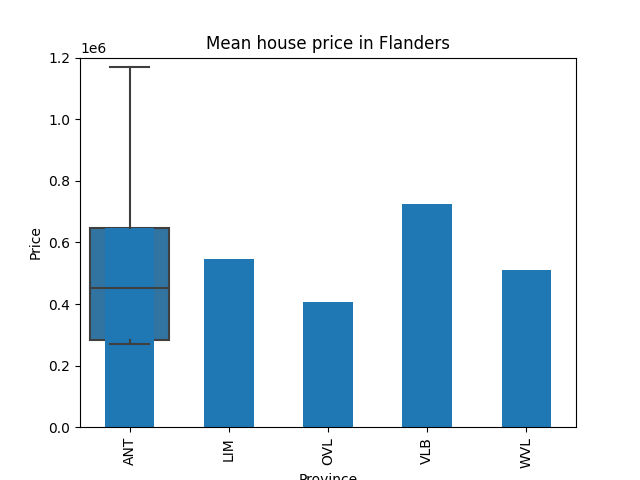
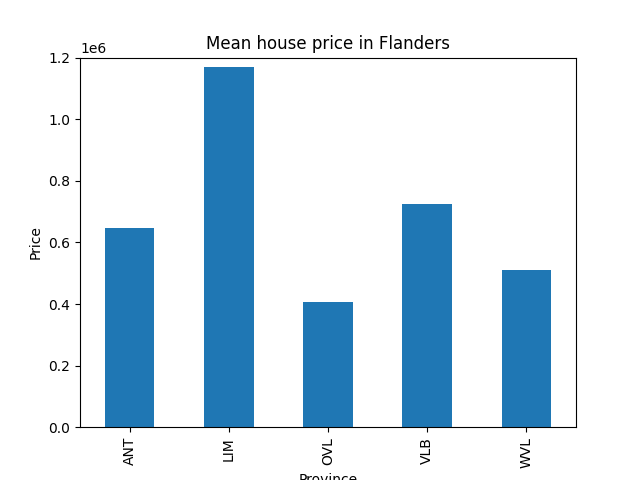
Yeah ...

Changed region(s): [[0.3125, 0.125, 0.4062, 0.5625], [0.125, 0.4688, 0.2812, 0.7188], [0.1875, 0.125, 0.2188, 0.1562]]

diff --git a/Data-Analysis_houses.py b/Data-Analysis_houses.py
@@ -75,8 +75,7 @@ df_wal_a = df_wal[df_wal["typeProperty"] == "APARTMENT"]
 # VISUALIZATION
 # with python and Matplotlib
 # mean per province
-houses = df_houses.groupby("province").price.mean()
-sns.boxplot(y = df_houses["province"], data = houses)
+houses = df_houses.groupby("province").price.mean().plot(kind = "bar")
 plt.title("Mean house price per province (Belgium)")
 plt.xlabel("Province")
 plt.ylabel("Price")
